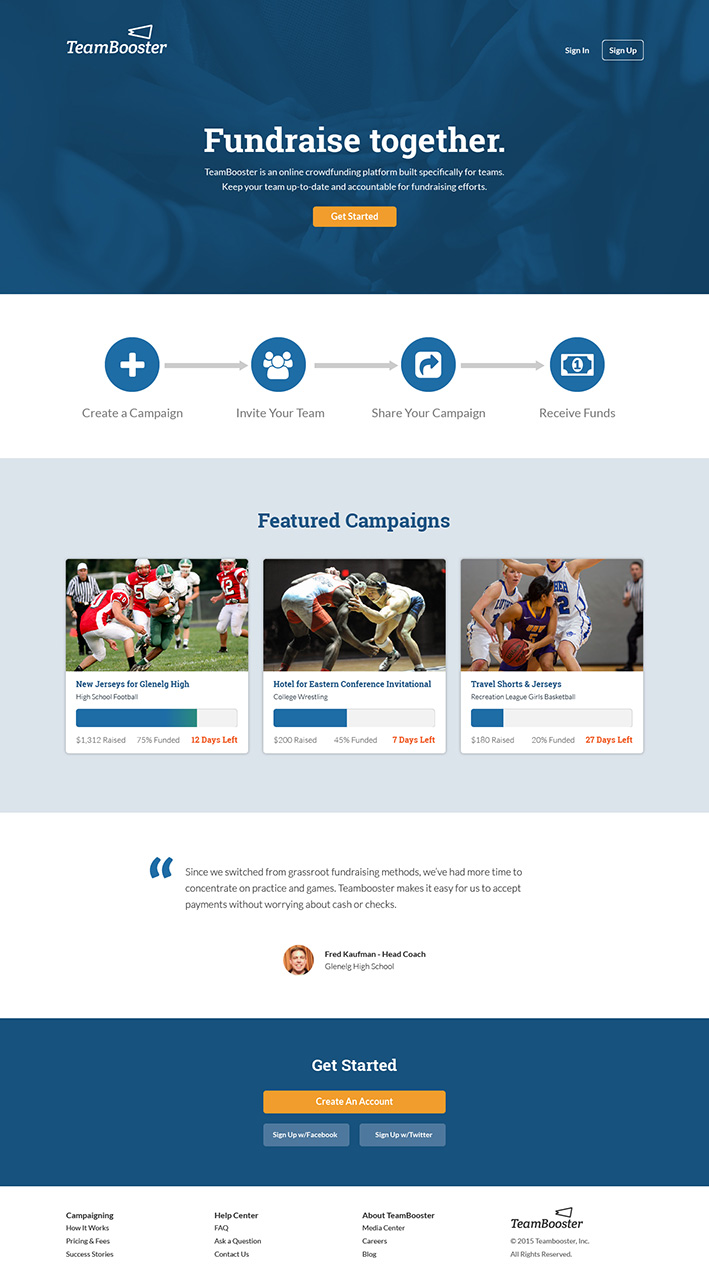
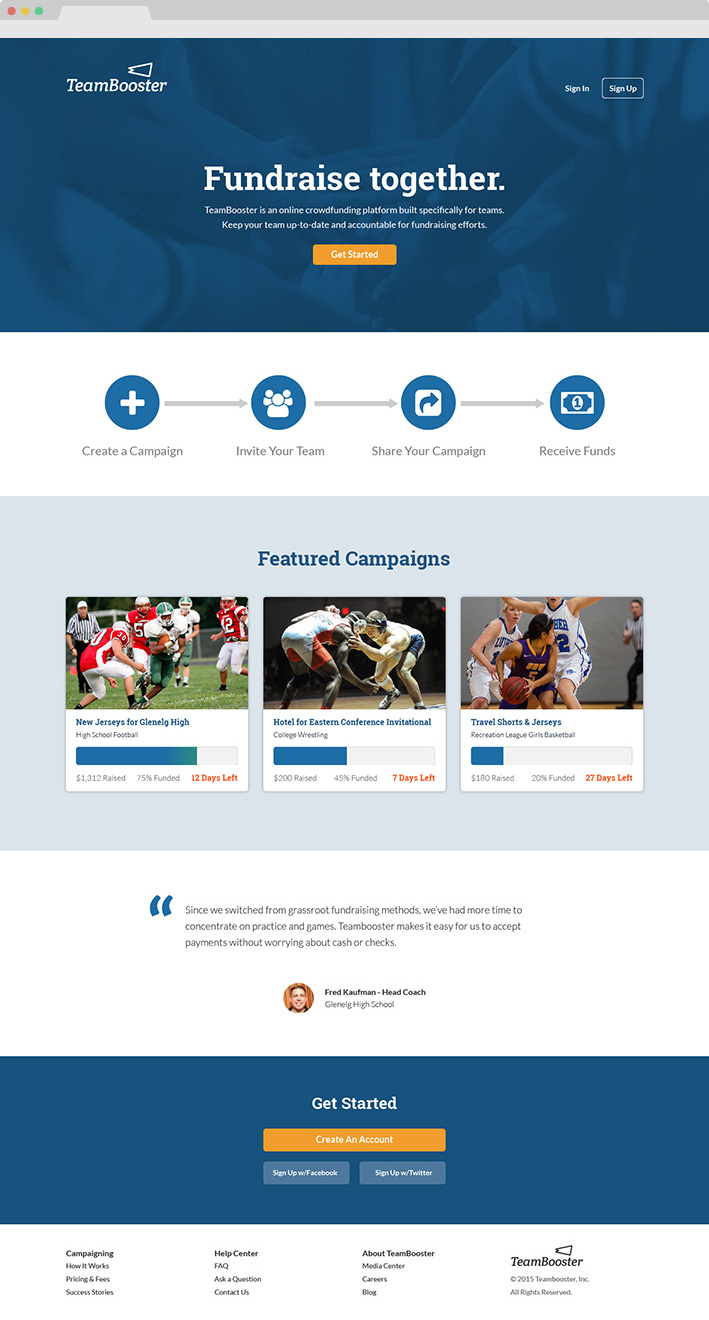
Added TeamBooster Content

diff --git a/css/michaelroach.css b/css/michaelroach.css
@@ -1,1 +1,1 @@
-.row{max-width:66.5rem}body{font-family:'Lato', sans-serif;color:#4D4D4D}p{font-size:1.2rem}header{position:fixed;z-index:1000;width:100%;-webkit-transition:all 0.25s;transition:all 0.25s;background:#0071BC;color:#fff;padding:25px 0 20px}header .logo{float:left;width:114px;margin:0 20px 0 0;-webkit-transition:all 0.25s;transition:all 0.25s}header .name{float:left;font-size:28px;font-weight:900;margin-top:16px;-webkit-transition:all 0.25s;transition:all 0.25s}header .nav-wrap{float:right;position:relative;margin-top:38px;-webkit-transition:all 0.25s;transition:all 0.25s}header ul.navigation{margin:0;padding:0;font-size:18px}header ul.navigation li{list-style:none;display:inline-block}header ul.navigation li a{color:#fff;padding:0 10px}header ul.navigation li:after{content:"|";color:#000}header ul.navigation li:last-child:after{content:""}header ul.navigation li:last-child a{padding:0 0 0 10px}header.shrink{padding:10px 0}header.shrink .logo{width:55px;-webkit-transition:all 0.25s;transition:all 0.25s;margin-top:5px}header.shrink .logo img{width:55px;-webkit-transition:all 0.25s;transition:all 0.25s}header.shrink .name{margin-top:0;-webkit-transition:all 0.25s;transition:all 0.25s}header.shrink .nav-wrap{margin-top:9px;-webkit-transition:all 0.25s;transition:all 0.25s}footer{background:#0071BC;padding:15px 0;margin:30px 0}footer ul.social{margin:0;padding:0}footer ul.social li{list-style:none;display:inline-block;margin:0 5px}footer ul.social li a{font-size:24px;color:#fff;-webkit-transition:all 0.25s;transition:all 0.25s}footer ul.social li a:hover{color:#f00}h1,h2,h3,h4,h5{color:#0071BC}h1{font-size:2.5rem}h2{font-size:1.6875rem}h3{font-size:1.4375rem}h4{font-size:1.125rem}a,a:link{-webkit-transition:all 0.25s;transition:all 0.25s}.case-study p{margin-bottom:70px}.case-study h2:first-of-type{margin-top:60px}.hero{height:664px;color:#fff}.teambooster{background:url(../img/teambooster-hero.jpg);background-attachment:fixed;background-position:center center;background-size:cover;position:relative}.teambooster .v-align{position:absolute;height:174px;-webkit-transform:translate(-50%, -50%);-ms-transform:translate(-50%, -50%);transform:translate(-50%, -50%);top:50%;left:50%}.teambooster h1{color:#fff;font-family:'Roboto Slab', serif;padding-top:20px}.blue-border img{border-radius:5px;border:1px solid #0071BC}.teambooster-landing{background:#CCE3F2;margin-top:60px;margin-bottom:120px}.teambooster-landing img{margin-top:-60px;margin-bottom:-60px;box-shadow:0 0 15px rgba(0,0,0,0.2)}.teambooster-landing img.card{border-radius:4px;margin-top:275px}.teambooster-landing p.caption{font-size:1rem}a.prototype{color:#fff}a.prototype:hover{color:#fff}.prototype{background:#0071BC;display:block;color:#fff;padding:10px 0;text-align:center;font-weight:700;margin-top:20px}.prototype:hover{background:#00558D}p.caption{display:block;font-weight:300;margin-top:5px;margin-bottom:0;display:block;text-align:center}
+.row{max-width:66.5rem}body{font-family:'Lato', sans-serif;color:#4D4D4D}p{font-size:1.2rem}header{position:fixed;z-index:1000;width:100%;-webkit-transition:all 0.25s;transition:all 0.25s;background:#0071BC;color:#fff;padding:25px 0 20px}header .logo{float:left;width:114px;margin:0 20px 0 0;-webkit-transition:all 0.25s;transition:all 0.25s}header .name{float:left;font-size:28px;font-weight:900;margin-top:16px;-webkit-transition:all 0.25s;transition:all 0.25s}header .nav-wrap{float:right;position:relative;margin-top:38px;-webkit-transition:all 0.25s;transition:all 0.25s}header ul.navigation{margin:0;padding:0;font-size:18px}header ul.navigation li{list-style:none;display:inline-block}header ul.navigation li a{color:#fff;padding:0 10px}header ul.navigation li:after{content:"|";color:#000}header ul.navigation li:last-child:after{content:""}header ul.navigation li:last-child a{padding:0 0 0 10px}header.shrink{padding:10px 0}header.shrink .logo{width:55px;-webkit-transition:all 0.25s;transition:all 0.25s;margin-top:5px}header.shrink .logo img{width:55px;-webkit-transition:all 0.25s;transition:all 0.25s}header.shrink .name{margin-top:0;-webkit-transition:all 0.25s;transition:all 0.25s}header.shrink .nav-wrap{margin-top:9px;-webkit-transition:all 0.25s;transition:all 0.25s}h1,h2,h3,h4,h5{color:#0071BC}h1{font-size:2.5rem}h2{font-size:1.6875rem}h3{font-size:1.4375rem}h4{font-size:1.125rem}a,a:link{-webkit-transition:all 0.25s;transition:all 0.25s}.case-study p{margin-bottom:70px}.case-study h2{margin-top:60px}.hero{height:664px;color:#fff}.teambooster{background:url(../img/teambooster-hero.jpg);background-attachment:fixed;background-position:center center;background-size:cover;position:relative}.teambooster .v-align{position:absolute;height:174px;-webkit-transform:translate(-50%, -50%);-ms-transform:translate(-50%, -50%);transform:translate(-50%, -50%);top:50%;left:50%}.teambooster h1{color:#fff;font-family:'Roboto Slab', serif;padding-top:20px}.blue-border img{border-radius:5px;border:1px solid #0071BC}.teambooster-landing{background:#CCE3F2;margin-top:60px;margin-bottom:80px}.teambooster-landing img{margin-top:-80px;margin-bottom:-80px;box-shadow:0 0 10px rgba(0,0,0,0.3);border-top-left-radius:5px;border-top-right-radius:5px}.teambooster-landing p.caption{font-size:1rem}.browser img{box-shadow:0 0 3px rgba(0,0,0,0.3)}.space-above{padding-top:40px}a.prototype{color:#fff}a.prototype:hover{color:#fff}.prototype{background:#0071BC;display:block;color:#fff;padding:10px 0;text-align:center;font-weight:700;margin-top:30px;border-radius:5px;border-bottom:3px solid #00558D;border-left:2px solid #00558D;border-right:2px solid #00558D;border-top:0px solid #00558D}.prototype:hover{background:#00558D}p.caption{display:block;font-weight:300;margin-top:5px;margin-bottom:0;display:block;text-align:center}footer{background:#0071BC;padding:15px 0;margin:80px 0 0}footer ul.social{margin:0;padding:0}footer ul.social li{list-style:none;display:inline-block;margin:0 5px}footer ul.social li a{font-size:24px;color:#fff;-webkit-transition:all 0.25s;transition:all 0.25s}footer ul.social li a:hover{color:#f00}

diff --git a/css/michaelroach.scss b/css/michaelroach.scss
@@ -32,15 +32,6 @@ header.shrink {padding:10px 0;
   .nav-wrap {margin-top:9px; transition:all $transition-time;}
 }
 
-footer {background:$blue; padding:15px 0; margin:30px 0;
-  ul.social{margin:0; padding:0;
-    li {list-style:none; display:inline-block; margin:0 5px;
-      a {font-size:24px; color:#fff; transition: all 0.25s;}
-      a:hover {color:#f00;}
-    }
-  }
-}
-
 h1,h2,h3,h4,h5 {color:$blue;}
 
 h1{font-size:2.5rem;}
@@ -51,25 +42,40 @@ h4{font-size:1.125rem;}
 a, a:link {transition:all .25s;}
 
 .case-study p {margin-bottom:70px;}
-.case-study h2:first-of-type {margin-top:60px;}
+.case-study h2{margin-top:60px;}
 .hero {height:664px; color:#fff;}
-.teambooster {background:url(../img/teambooster-hero.jpg); background-attachment:fixed; background-position:center center; background-size:cover; position:relative;
+.teambooster {background:url(../img/teambooster-hero.jpg); background-attachment:fixed; background-position:center center; background-size:cover; position:relative; 
     .v-align {position:absolute; height:174px; transform: translate(-50%,-50%); top:50%; left:50%;}
     h1 {color:#fff; font-family: 'Roboto Slab', serif; padding-top:20px;}
 }
 .blue-border img{border-radius:5px; border:1px solid $blue;}
 
-$pop: 60px;
-.teambooster-landing {background:$light-blue; margin-top:$pop; margin-bottom:$pop*2;
-  img {margin-top:-$pop; margin-bottom:-$pop; box-shadow:0 0 15px rgba(0,0,0,0.2);}
-  img.card {border-radius:4px; margin-top:275px;}
+$pop: 80px;
+.teambooster-landing {background:$light-blue; margin-top:$pop - 20px; margin-bottom:$pop;
+  img {margin-top:-$pop; margin-bottom:-$pop; box-shadow:0 0 10px rgba(0,0,0,0.3); border-top-left-radius:5px; border-top-right-radius:5px;}
   p.caption {font-size:1rem;}
 }
 
+.browser {
+  img {box-shadow:0 0 3px rgba(0,0,0,0.3);}
+}
+
+.space-above {padding-top:40px;}
+
 a.prototype{color:#fff;}
   a.prototype:hover{color:#fff;}
-.prototype {background:$blue; display:block; color:#fff; padding:10px 0; text-align:center; font-weight:700; margin-top:20px;
+.prototype {background:$blue; display:block; color:#fff; padding:10px 0; text-align:center; font-weight:700; margin-top:30px; border-radius:5px;
+  border-bottom:3px solid $dark-blue; border-left:2px solid $dark-blue; border-right:2px solid $dark-blue; border-top:0px solid $dark-blue;
   &:hover {background:$dark-blue;}
 }
 
 p.caption{display:block; font-weight:300; margin-top:5px; margin-bottom:0; display:block; text-align:center;}
+
+footer {background:$blue; padding:15px 0; margin:80px 0 0;
+  ul.social{margin:0; padding:0;
+    li {list-style:none; display:inline-block; margin:0 5px;
+      a {font-size:24px; color:#fff; transition: all 0.25s;}
+      a:hover {color:#f00;}
+    }
+  }
+}

diff --git a/index.html b/index.html
@@ -100,11 +100,48 @@
       <section class="teambooster-landing">
         <div class="row">
           <div class="medium-8 columns medium-centered">
+            <div class="wrap">
             <img src="img/teambooster-landing-page.jpg" alt="TeamBooster Landing Page">
+            </div>
           </div>
         </div>
-
       </section>
+      <section>
+        <div class="row">
+          <div class="medium-8 columns medium-centered">
+            <h2>UI/UX Design</h2>
+            <p>Designing the various pages of the website challenged me to create a strong system of hierarchy.</p>
+          </div>
+        </div>
+        
+        <div class="row"> 
+          <div class="medium-6 columns text-center browser">
+              <img src="img/teambooster-1.jpg" alt="TeamBooster Final Logo">
+              <p class="caption">Campaign Listings</p>
+          </div>
+          <div class="medium-6 columns text-center browser">
+              <img src="img/teambooster-2.jpg" alt="TeamBooster Logo Concepts">
+              <p class="caption">Campaign Page</p>
+          </div>
+        </div>
+        <div class="row"> 
+          <div class="medium-6 columns text-center browser space-above">
+              <img src="img/teambooster-3.jpg" alt="TeamBooster Final Logo">
+              <p class="caption">Campaign Dashboard</p>
+          </div>
+          <div class="medium-6 columns text-center browser space-above">
+              <img src="img/teambooster-4.jpg" alt="TeamBooster Logo Concepts">
+              <p class="caption">Donation Flow</p>
+          </div>
+        </div>
+        <div class="row">
+          <div class="medium-4 columns medium-centered">
+             <a href="http://invis.io/WZ3HCVANG" target="_blank" class="prototype dropshadow">Launch Prototype</a>
+          </div>
+        </div>
+      </section>
+    
+
     </div>
   <footer>
     <div class="row">
